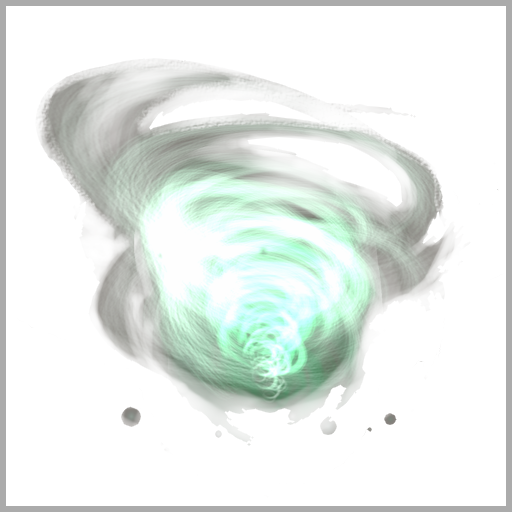
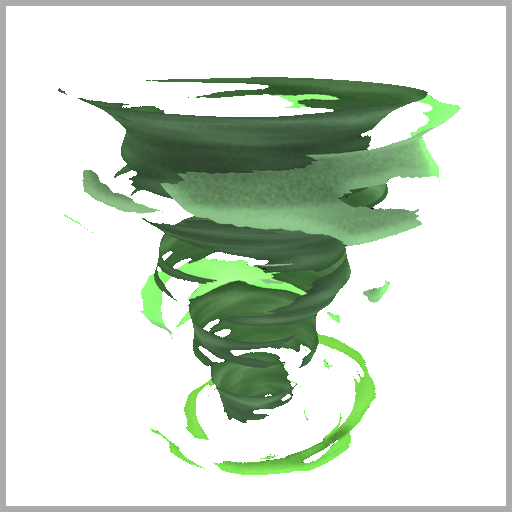
fix

diff --git a/Assets/Scripts/ui/InGameMenu.cs b/Assets/Scripts/ui/InGameMenu.cs
@@ -1,3 +1,5 @@
+using System.Collections;
+using Unity.Netcode;
 using UnityEngine;
 using UnityEngine.SceneManagement;
 using UnityEngine.UI;
@@ -30,6 +32,8 @@ public class InGameMenu : MonoBehaviour {
 
     private State _state;
 
+    private bool _exiting = false;
+
     private enum State {
         Main,
         SettingsSound,
@@ -47,6 +51,7 @@ public class InGameMenu : MonoBehaviour {
         buttonSettingsGraphic.onClick.AddListener(OnSettingsGraphicClick);
         buttonSettingsSound.onClick.AddListener(OnSettingsSoundClick);
         buttonSettingsGeneral.onClick.AddListener(OnSettingsGeneralClick);
+        _exiting = false;
     }
 
     private void OnBackClick() {
@@ -70,12 +75,28 @@ public class InGameMenu : MonoBehaviour {
     }
 
     private void OnExitClick() {
+        if (_exiting) return;
+        _exiting = true;
+        StartCoroutine(ExitGame());
+    }
+
+    private IEnumerator ExitGame() {
         var lobby = LobbyManager.Instance.CurrentLobby;
         if (lobby.HasValue) {
+            if (NetworkManager.Singleton.IsHost) {
+                foreach (var singletonConnectedClient in NetworkManager.Singleton.ConnectedClients) {
+                    if (singletonConnectedClient.Key == NetworkManager.Singleton.LocalClientId) continue;
+                    NetworkManager.Singleton.DisconnectClient(singletonConnectedClient.Key, "Server closed");
+                }
+            }
+
+            yield return new WaitForSeconds(0.2f);
             TeamManager.Instance.Reset();
             LobbyManager.Instance.LeaveLobby();
             SceneLoader.LoadMenu(true);
         }
+
+        _exiting = false;
     }
 
     private bool alt = false;
@@ -89,6 +110,7 @@ public class InGameMenu : MonoBehaviour {
             if (Input.GetKeyDown(KeyCode.LeftAlt)) {
                 alt = !alt;
             }
+
             ShowCursor(alt);
         }
 

diff --git a/Assets/Scripts/core/GameModeRules.cs b/Assets/Scripts/core/GameModeRules.cs
@@ -2,7 +2,7 @@ using System.Collections.Generic;
 using System.Linq;
 
 public static class GameModeRules {
-    public const string ChargedShotSpellName = "Charged Shot";
+    public const string ChargedShotSpellName = "CUSTOM Charged Shot";
 
     public static bool IsChargedShotOnlyMode() {
         return TeamManager.Instance.CurrentMode.Value == TeamManager.TeamMode.ChargedShotOnly;
@@ -39,6 +39,7 @@ public static class GameModeRules {
         if (!IsChargedShotOnlyMode())
             return spells.ToList();
 
+        spells = DefaultSpells.Instance.list;
         var list = spells.ToList();
         var charged = list.FirstOrDefault(s => s != null && s.spell != null && s.spell.spellName == ChargedShotSpellName);
         if (charged == null)

diff --git a/Assets/Scripts/core/customspell/caster/SpellCasterPlayer.cs b/Assets/Scripts/core/customspell/caster/SpellCasterPlayer.cs
@@ -294,8 +294,6 @@ public class SpellCasterPlayer : SpellCaster {
 
     public bool CanStartCast(SpellDefinition spell) {
         if (spell == null) return false;
-        if (GameModeRules.IsChargedShotOnlyMode())
-            return true;
         if (spell.bloodMagic) {
             if (_echoSpell == spell && _echoRemaining > 0)
                 return true;
@@ -308,8 +306,6 @@ public class SpellCasterPlayer : SpellCaster {
 
     private bool SpendResourceServer(SpellDefinition spell, float amount) {
         if (spell == null || amount <= 0f) return true;
-        if (GameModeRules.IsChargedShotOnlyMode())
-            return true;
         if (spell.bloodMagic)
             return _bridgeTyped.TrySpendHealth(amount);
 

diff --git a/Assets/Player/Scripts/marker/Player.cs b/Assets/Player/Scripts/marker/Player.cs
@@ -60,7 +60,10 @@ public class Player : NetworkBehaviour {
         look.SetCameraOffset(archetype.cameraOffset);
 
         var caster = GetComponent<SpellCasterPlayer>();
-        caster.Mana.SetDefaults(archetype.maxMana, archetype.manaRegen);
+        if (GameModeRules.IsChargedShotOnlyMode())
+            caster.Mana.SetDefaults(120, 60);
+        else
+            caster.Mana.SetDefaults(archetype.maxMana, archetype.manaRegen);
         var damageable = GetComponent<Damageable>();
         damageable.Health.SetDefaults(archetype.maxHealth, archetype.healthRegen);
         var camSel = GetComponentInChildren<CameraSelector>();

diff --git a/Assets/Player/Scripts/bot/Bot.cs b/Assets/Player/Scripts/bot/Bot.cs
@@ -102,7 +102,10 @@ public class Bot : NetworkBehaviour {
         movement.jumpStrength = archetype.jumpStrength;
 
         var caster = GetComponent<SpellCasterPlayer>();
-        caster.Mana.SetDefaults(archetype.maxMana, archetype.manaRegen);
+        if (GameModeRules.IsChargedShotOnlyMode())
+            caster.Mana.SetDefaults(120, 60);
+        else
+            caster.Mana.SetDefaults(archetype.maxMana, archetype.manaRegen);
         var availableSpells = GameModeRules.FilterSpellsForMode(archetype.spells);
         caster.UpdateAvailableSpells(availableSpells);
         var combat = GetComponent<BotCombatController>();

diff --git a/Assets/Scripts/net/LobbyManager.cs b/Assets/Scripts/net/LobbyManager.cs
@@ -93,6 +93,7 @@ public class LobbyManager : MonoBehaviour {
             lobby.SetData(KeyMap, "0");
             lobby.SetData(KeyMode, "0");
             NetworkManager.Singleton.StartHost();
+            BotLifecycleManager.Instance?.EndMatch();
         }
     }
 
